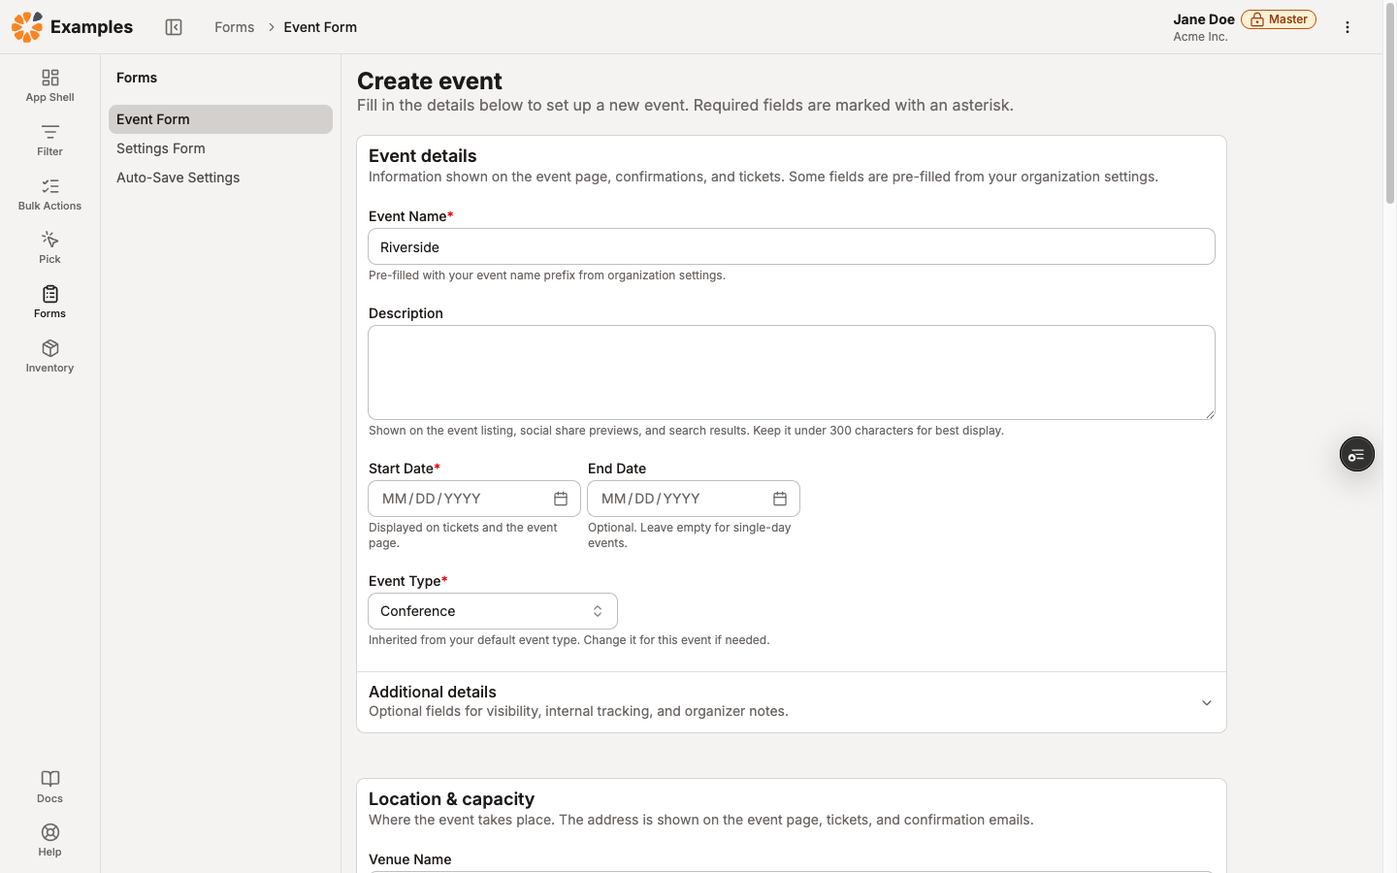
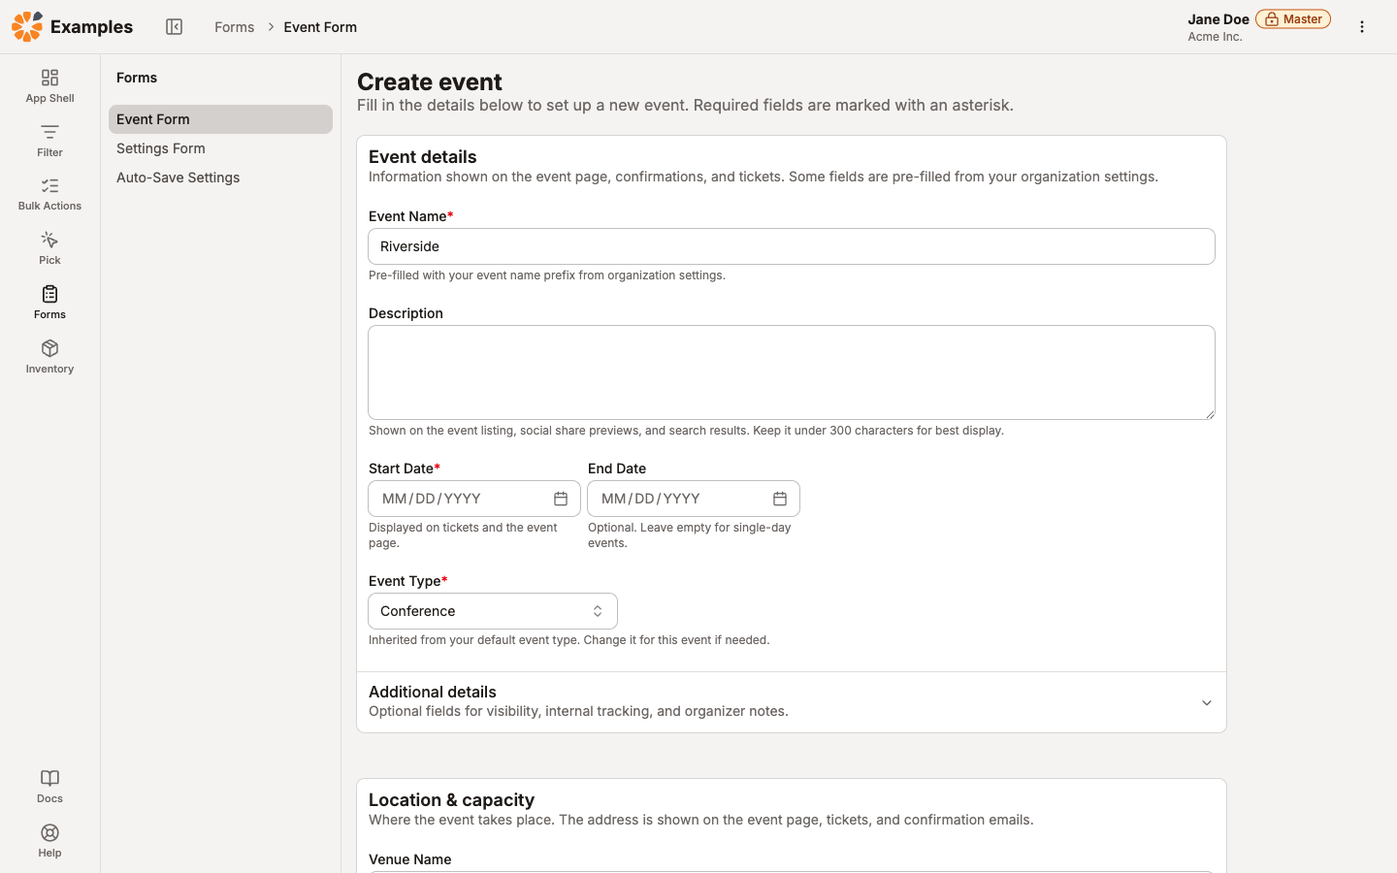
docs(DST-1571): rework part 1 after review
- Say "Seite" instead of "Screen" throughout
- Soften the before section ("festgelegt"/"eigene Loesung" instead of "erfunden")
- Move the "kein Fehler" passage from a callout into the running text
- Lead the frame chapter with the three-levels context before the details
- Reframe the Panel examples as "wir haben uns herangetastet", no single team
- Split the rollout into looks / page structure / navigation with the
  post-Christmas opt-in story for the navigation
- Retake all eight beta-docs screenshots without the Vercel toolbar

diff --git a/.v18-layout-article/preview.html b/.v18-layout-article/preview.html
@@ -148,7 +148,7 @@
     <p>Folgeartikel zu „Das visuelle Fundament von Marigold v18“. Die offenen Punkte für die Veröffentlichung stehen am Ende der Seite.</p>
   </div>
 
-  <p class="lede">Im letzten Artikel ging es um Farben, Flächen und Schatten, also darum, wie unsere Oberflächen aussehen. Diesmal geht es eine Ebene höher: wie eine Seite überhaupt aufgebaut ist. Das ist der Teil von v18, der am meisten verändert, wie wir Screens entwerfen und bauen.</p>
+  <p class="lede">Im letzten Artikel ging es um Farben, Flächen und Schatten, also darum, wie unsere Oberflächen aussehen. Diesmal geht es eine Ebene höher: um den Aufbau einer Seite. Das ist der Teil von v18, der am meisten daran ändert, wie wir entwerfen und entwickeln.</p>
 
   <p>Ein Bild vorweg, das den ganzen Artikel zusammenfasst: <strong>erst die Räume, dann die Möbel.</strong> Der Rahmen einer Anwendung ist das Gebäude. Eine Seite ist ein Raum darin. Panels sind die benannten Bereiche im Raum. Und was in einem Bereich steht, sind die Möbel.</p>
 
@@ -164,7 +164,7 @@
   <h2>Teil 1: Wie eine Seite in Marigold aufgebaut ist</h2>
 
   <h3>Vorher gab es kein gemeinsames Modell</h3>
-  <p>Bisher hat jedes Produkt seinen Seitenaufbau selbst erfunden. Es gab Bausteine für Buttons, Felder und Tabellen, aber keinen für „eine Seite“. Also hat jeder Screen die Grundfragen neu beantwortet: Wo steht der Titel? Wie weit ist der Abstand nach oben? Kommt die Hauptaktion oben rechts hin oder unten? Wie werden Abschnitte voneinander getrennt, und heißen sie überhaupt irgendwie?</p>
+  <p>Bisher hat jedes Produkt seinen Seitenaufbau selbst festgelegt. Es gab Bausteine für Buttons, Felder und Tabellen, aber keinen für „eine Seite“. Also hat jede Seite die Grundfragen neu beantwortet: Wo steht der Titel? Wie weit ist der Abstand nach oben? Kommt die Hauptaktion oben rechts hin oder unten? Wie werden Abschnitte voneinander getrennt, und heißen sie überhaupt irgendwie?</p>
   <p>Das Ergebnis sieht man hier. Unter dem Titel liegt ein Stapel Bedienelemente: ein Schalter, ein Suchfeld, eine Schnellwahl, dazwischen die Hauptaktion. Danach folgt eine Tabelle, die direkt auf dem Seitenhintergrund liegt. Nichts davon ist als Bereich benannt.</p>
 
   <figure>
@@ -172,11 +172,10 @@
     <figcaption>Eine typische Seite ohne gemeinsames Seitenmodell: Titel, darunter Bedienelemente in unterschiedlichen Breiten, dann eine Tabelle ohne eigene Fläche.</figcaption>
   </figure>
 
-  <div class="panel">
-    <p>Das war kein Fehler, den irgendwer gemacht hat. Es gab schlicht kein gemeinsames Modell, an dem man sich orientieren konnte, also hat jedes Team eins erfunden. Genau diese Lücke füllt v18.</p>
-  </div>
+  <p>Das war kein Fehler, den irgendwer gemacht hat. Es gab schlicht kein gemeinsames Modell, an dem man sich orientieren konnte, also hat jedes Team eine eigene Lösung gefunden. Genau diese Lücke füllt v18.</p>
 
   <h3>Der Rahmen bleibt, der Inhalt wechselt</h3>
+  <p>v18 beantwortet diese Fragen einmal, und zwar mit drei Ebenen, die ineinander liegen: dem Rahmen der Anwendung, der Seite darin, und den benannten Bereichen auf der Seite. Jede Ebene hat eine klare Aufgabe, und keine übernimmt die Aufgabe einer anderen. Das ist der ganze Kern des Layout-Systems. Gehen wir die drei Ebenen von außen nach innen durch.</p>
   <p>Ganz außen sitzt der <strong>App-Rahmen</strong>: Navigation links, eine Kopfzeile oben, der Inhalt darunter. Der Rahmen bleibt stehen, während man durch die Anwendung navigiert. Nur der Inhaltsbereich wechselt.</p>
 
   <figure>
@@ -203,6 +202,8 @@
     <figcaption>Der Inhalt einspaltig: Der Seitenkopf bricht um, das Panel behält Titel und Beschreibung.</figcaption>
   </figure>
 
+  <p>Die neue Navigation kommt allerdings nicht zusammen mit dem Rest von v18. Wann sie kommt und warum getrennt, steht weiter unten unter „Wann kommt das?“.</p>
+
   <p>Wichtig ist außerdem etwas, das man nicht sieht: Die Seite scrollt wie eine ganz normale Webseite, nicht in einem eigenen Kasten. Deshalb funktionieren Dinge, die man von jeder Website erwartet: Suchen mit <code>Cmd+F</code>, der Zurück-Button, Links, die an die richtige Stelle springen.</p>
 
   <h3>Die Seite: ein Titel, eine Hauptaktion</h3>
@@ -218,15 +219,15 @@
   <p>Unter dem Seitenkopf liegen <strong>Panels</strong>. Ein Panel ist ein benannter Bereich, der ein Thema bündelt: „Basisdaten“, „Tickets“, „Abrechnung“. Eine typische Seite besteht aus einer Handvoll davon. Das macht aus einer langen Liste von Feldern eine Seite, die man überfliegen kann: Man liest die Überschriften, findet seinen Bereich und liest nur dort weiter.</p>
   <p>Der Unterschied zur Karte ist wichtig, weil beide gleich aussehen: Eine Karte steht für einen Eintrag, der sich wiederholt, etwa eine Veranstaltung in einer Liste. Ein Panel gibt es pro Bereich genau einmal. <strong>Karten wiederholen sich, Panels nicht.</strong></p>
 
-  <h3>Ein Team hat schon angefangen</h3>
-  <p>Das Muster gab es intern schon, bevor es einen Namen hatte. Auf der Seite zum Bearbeiten eines Einzeltermins ist genau das gebaut: Abschnitte mit Titel, jeder mit einem Thema, jeweils auf einer eigenen weißen Fläche.</p>
+  <h3>Wir haben uns schon herangetastet</h3>
+  <p>Das Muster ist nicht neu. An mehreren Stellen in unseren Systemen haben wir uns in genau diese Richtung vorgearbeitet, lange bevor es einen Namen dafür gab. Ein Beispiel, das viele kennen, ist die Seite zum Bearbeiten eines Einzeltermins: Abschnitte mit Titel, jeder mit einem Thema, jeweils auf einer eigenen weißen Fläche.</p>
 
   <figure>
     <img src="assets/core-event-panel-tickets.png" alt="Abschnitt Tickets auf der Einzeltermin-Seite">
     <figcaption>Ein Abschnitt der Einzeltermin-Seite: Titel, Felder, und am Ende ein einziger einklappbarer Teil für die erweiterten Einstellungen.</figcaption>
   </figure>
 
-  <p>Technisch ist dieser Abschnitt eine Card, denn ein Panel gab es damals nicht. Das Team hatte also nicht die Wahl und hat die Card zum Seitenabschnitt umgebaut. v18 gibt dem Ding endlich seinen richtigen Namen und den passenden Aufbau.</p>
+  <p>Technisch ist dieser Abschnitt eine Card, denn ein Panel gab es damals noch nicht. Also wurde die Card zum Seitenabschnitt umgebaut, weil sie das Nächstliegende war. v18 gibt dem Ding endlich seinen richtigen Namen und den passenden Aufbau.</p>
   <p>Dasselbe im Überspielungstool, dort mit zwei Bereichen nebeneinander. Beide haben einen Titel, eine Zeile mit der Anzahl darunter, ihre eigenen Filter und einen leeren Zustand mit einem Hinweis, was zu tun ist.</p>
 
   <figure>
@@ -234,23 +235,27 @@
     <figcaption>Zwei benannte Bereiche nebeneinander, jeder mit Titel, Anzahl, eigenen Filtern und leerem Zustand.</figcaption>
   </figure>
 
-  <p>Diese Beispiele sind der eigentliche Beleg dafür, dass v18 nichts Neues erfindet. Mehrere Teams sind unabhängig voneinander bei derselben Form gelandet, weil das die Form ist, die die Aufgabe verlangt. Das Layout-System schreibt sie auf und gibt sie allen anderen mit.</p>
+  <p>Diese Beispiele sind der eigentliche Beleg dafür, dass v18 nichts Neues erfindet. An verschiedenen Stellen sind wir unabhängig voneinander bei derselben Form gelandet, weil das die Form ist, die die Aufgabe verlangt. Das Layout-System schreibt sie auf und macht sie überall verfügbar.</p>
 
   <h3>Was das im Alltag bringt</h3>
   <ul>
-    <li><strong>Weniger Erklärbedarf.</strong> Wer einen Screen verstanden hat, versteht die anderen auch. Der Rahmen springt nicht von Produkt zu Produkt.</li>
+    <li><strong>Weniger Erklärbedarf.</strong> Wer eine Seite verstanden hat, versteht die anderen auch. Der Rahmen springt nicht von Produkt zu Produkt.</li>
     <li><strong>Bereiche haben Namen.</strong> Im Support kann man sagen „im Bereich Tickets“ statt „ungefähr in der Mitte weiter runter scrollen“.</li>
     <li><strong>Barrierefreiheit fällt mit ab.</strong> Screenreader navigieren genau über solche benannten Bereiche und über die Überschriften-Struktur einer Seite. Beides entsteht automatisch, wenn ein Bereich einen Titel bekommt. Das ist auch für Ausschreibungen relevant, in denen Barrierefreiheit abgefragt wird.</li>
-    <li><strong>Neue Screens gehen schneller.</strong> Niemand baut den Seitenrahmen noch mal neu.</li>
+    <li><strong>Neue Seiten gehen schneller.</strong> Niemand baut den Seitenrahmen noch mal neu.</li>
   </ul>
 
   <h3>Wann kommt das?</h3>
-  <p>Beim Aussehen war es einfach: v18 kommt Mitte August, danach sieht alles frischer aus, und funktional ändert sich nichts.</p>
+  <p>Hier lohnt es sich, genau zu lesen, weil drei Dinge zu drei verschiedenen Zeitpunkten kommen.</p>
 
   <div class="panel note">
     <div class="panel-title">Für alle, die mit Kunden sprechen</div>
-    <p>Beim Layout ist es anders. Der neue Aufbau kommt <strong>Screen für Screen</strong>, nicht mit einem Schlag. Ein Produkt kann Panels einsetzen und weiterhin im alten Rahmen laufen, so wie es die Einzeltermin-Seite heute tut. Es gibt also keinen Tag, an dem plötzlich alle Seiten anders aussehen, sondern eine Reihe von Umbauten über die nächsten Releases. Wo umgebaut wird, ändern sich Anordnung und Abstände sichtbar, weil genau das der Punkt ist.</p>
+    <p><strong>Das Aussehen</strong> kommt Mitte August ins Reservix-System, also die neuen Farben, Flächen und Schatten aus dem letzten Artikel. Die anderen Systeme ziehen danach nach. Funktional ändert sich dabei nichts.</p>
+    <p><strong>Der Seitenaufbau mit Panels</strong> kommt Seite für Seite, nicht mit einem Schlag. Ein Produkt kann Panels einsetzen und dabei weiterhin im bisherigen Rahmen laufen, so wie es die Einzeltermin-Seite heute schon tut. Es gibt also keinen Tag, an dem plötzlich alle Seiten anders aussehen, sondern eine Reihe von Umbauten über die nächsten Releases. Wo umgebaut wird, ändern sich Anordnung und Abstände sichtbar, weil genau das der Punkt ist.</p>
+    <p><strong>Die neue Navigation</strong> ist von beidem ausgenommen und kommt später, nach dem Weihnachtsgeschäft. Die Navigation ist einer der wichtigsten Faktoren in unseren Systemen und besonders im Reservix-System: Wer täglich damit arbeitet, greift blind nach den richtigen Stellen. Deshalb führen wir sie getrennt vom Rest ein, statt sie in einem großen Release mitlaufen zu lassen. Voraussichtlich wird es sie zuerst als Opt-in geben, so dass jede und jeder selbst entscheiden kann, wann umgestellt wird.</p>
   </div>
+
+  <p>Einige von euch haben die neue Navigation schon getestet. Danke dafür, euer Feedback ist eingebaut. Bevor sie an den Start geht, wird sie noch einmal auf Herz und Nieren geprüft.</p>
 
   <p>Wer nur wissen wollte, wie eine Seite aufgebaut ist, kann hier aufhören. Der Rest geht ins Detail.</p>
 
@@ -346,7 +351,7 @@
   <p>Rahmen und Seite sind in v18 als Beta gekennzeichnet. Sie funktionieren und sind im Einsatz, die Schnittstelle kann sich aber noch ändern. Panel ist stabiler und die naheliegende Stelle, um anzufangen: Man kann eine bestehende Seite in benannte Bereiche gliedern, ohne den Rahmen anzufassen.</p>
 
   <h2>Zum Weiterlesen</h2>
-  <p>Die vollständige Referenz steht in der Beta-Dokumentation: <a href="https://marigold-docs-git-beta-release-marigold.vercel.app/foundations/layouts">Layouts</a> für die Grundlagen, <a href="https://marigold-docs-git-beta-release-marigold.vercel.app/patterns/layout/app-frame">App Frame</a> für den Aufbau einer Anwendung, <a href="https://marigold-docs-git-beta-release-marigold.vercel.app/components/layout/panel">Panel</a> für alle Details zu Titel, Aktionen, Varianten und Abständen. Die Beispielseiten unter <a href="https://marigold-docs-git-beta-release-marigold.vercel.app/examples">Examples</a> sind vollständige Screens, durch die man klicken kann.</p>
+  <p>Die vollständige Referenz steht in der Beta-Dokumentation: <a href="https://marigold-docs-git-beta-release-marigold.vercel.app/foundations/layouts">Layouts</a> für die Grundlagen, <a href="https://marigold-docs-git-beta-release-marigold.vercel.app/patterns/layout/app-frame">App Frame</a> für den Aufbau einer Anwendung, <a href="https://marigold-docs-git-beta-release-marigold.vercel.app/components/layout/panel">Panel</a> für alle Details zu Titel, Aktionen, Varianten und Abständen. Die Beispielseiten unter <a href="https://marigold-docs-git-beta-release-marigold.vercel.app/examples">Examples</a> sind vollständige Seiten, durch die man klicken kann.</p>
   <p>Zum Schluss dieselbe Beobachtung wie beim visuellen Fundament: Ein gutes Layout fällt nicht auf. Man merkt es daran, dass man auf einer neuen Seite nicht überlegen muss, wo man ist und was man als Nächstes tun soll.</p>
 
   <hr>
@@ -354,11 +359,11 @@
   <div class="panel note checklist">
     <div class="panel-title">Vor der Veröffentlichung zu klären (intern, vor dem Publizieren entfernen)</div>
     <ul>
-      <li>Team der Einzeltermin-Seite und des Überspielungstools vorab informieren, beide werden namentlich als positives Beispiel genannt.</li>
       <li>Screenshots stammen aus dem Test-Mandanten „Test-Design System“ auf Stage, keine echten Kundendaten.</li>
       <li>Doku-Links zeigen auf die Beta-Deployment-URL und müssen zum Launch auf marigold-ui.io umgestellt werden.</li>
       <li>Master- und Admin-Markierungen sind auf zwei Screenshots sichtbar, werden im Text aber bewusst nicht erklärt.</li>
-      <li>Namen der beiden Teams im Abschnitt „Ein Team hat schon angefangen“ ergänzen.</li>
+      <li>Termin „nach dem Weihnachtsgeschäft“ für die Navigation: genauer fassen, sobald bekannt?</li>
+      <li>Opt-in für die Navigation ist als „voraussichtlich“ formuliert. Vor der Veröffentlichung bestätigen.</li>
     </ul>
   </div>
 

diff --git a/.v18-layout-article/ARTICLE.md b/.v18-layout-article/ARTICLE.md
@@ -2,7 +2,7 @@
 
 _Entwurf für Review (DST-1571). Folgeartikel zu „Das visuelle Fundament von Marigold v18". Noch nicht veröffentlicht._
 
-Im letzten Artikel ging es um Farben, Flächen und Schatten, also darum, wie unsere Oberflächen aussehen. Diesmal geht es eine Ebene höher: wie eine Seite überhaupt aufgebaut ist. Das ist der Teil von v18, der am meisten verändert, wie wir Screens entwerfen und bauen.
+Im letzten Artikel ging es um Farben, Flächen und Schatten, also darum, wie unsere Oberflächen aussehen. Diesmal geht es eine Ebene höher: um den Aufbau einer Seite. Das ist der Teil von v18, der am meisten daran ändert, wie wir entwerfen und entwickeln.
 
 Ein Bild vorweg, das den ganzen Artikel zusammenfasst: **erst die Räume, dann die Möbel.** Der Rahmen einer Anwendung ist das Gebäude. Eine Seite ist ein Raum darin. Panels sind die benannten Bereiche im Raum. Und was in einem Bereich steht, sind die Möbel.
 
@@ -16,15 +16,17 @@ Der Artikel ist in drei Teilen aufgebaut. **Teil 1** erklärt den Aufbau einer S
 
 ### Vorher gab es kein gemeinsames Modell
 
-Bisher hat jedes Produkt seinen Seitenaufbau selbst erfunden. Es gab Bausteine für Buttons, Felder und Tabellen, aber keinen für „eine Seite". Also hat jeder Screen die Grundfragen neu beantwortet: Wo steht der Titel? Wie weit ist der Abstand nach oben? Kommt die Hauptaktion oben rechts hin oder unten? Wie werden Abschnitte voneinander getrennt, und heißen sie überhaupt irgendwie?
+Bisher hat jedes Produkt seinen Seitenaufbau selbst festgelegt. Es gab Bausteine für Buttons, Felder und Tabellen, aber keinen für „eine Seite". Also hat jede Seite die Grundfragen neu beantwortet: Wo steht der Titel? Wie weit ist der Abstand nach oben? Kommt die Hauptaktion oben rechts hin oder unten? Wie werden Abschnitte voneinander getrennt, und heißen sie überhaupt irgendwie?
 
 Das Ergebnis sieht man hier. Unter dem Titel liegt ein Stapel Bedienelemente: ein Schalter, ein Suchfeld, eine Schnellwahl, dazwischen die Hauptaktion. Danach folgt eine Tabelle, die direkt auf dem Seitenhintergrund liegt. Nichts davon ist als Bereich benannt.
 
 ![Veranstaltungsübersicht: Bedienelemente ohne benannte Bereiche unter dem Titel](assets/core-before-veranstaltungen.png)
 
-Das war kein Fehler, den irgendwer gemacht hat. Es gab schlicht kein gemeinsames Modell, an dem man sich orientieren konnte, also hat jedes Team eins erfunden. Genau diese Lücke füllt v18.
+Das war kein Fehler, den irgendwer gemacht hat. Es gab schlicht kein gemeinsames Modell, an dem man sich orientieren konnte, also hat jedes Team eine eigene Lösung gefunden. Genau diese Lücke füllt v18.
 
 ### Der Rahmen bleibt, der Inhalt wechselt
+
+v18 beantwortet diese Fragen einmal, und zwar mit drei Ebenen, die ineinander liegen: dem Rahmen der Anwendung, der Seite darin, und den benannten Bereichen auf der Seite. Jede Ebene hat eine klare Aufgabe, und keine übernimmt die Aufgabe einer anderen. Das ist der ganze Kern des Layout-Systems. Gehen wir die drei Ebenen von außen nach innen durch.
 
 Ganz außen sitzt der **App-Rahmen**: Navigation links, eine Kopfzeile oben, der Inhalt darunter. Der Rahmen bleibt stehen, während man durch die Anwendung navigiert. Nur der Inhaltsbereich wechselt.
 
@@ -39,6 +41,8 @@ Auf schmalen Bildschirmen wird die Navigation zu einer Fläche, die sich über d
 ![Navigation auf schmalem Bildschirm](assets/nav-mobile-sheet.png)
 
 ![Seiteninhalt auf schmalem Bildschirm](assets/nav-mobile-page.png)
+
+Die neue Navigation kommt allerdings nicht zusammen mit dem Rest von v18. Wann sie kommt und warum getrennt, steht weiter unten unter „Wann kommt das?".
 
 Wichtig ist außerdem etwas, das man nicht sieht: Die Seite scrollt wie eine ganz normale Webseite, nicht in einem eigenen Kasten. Deshalb funktionieren Dinge, die man von jeder Website erwartet: Suchen mit `Cmd+F`, der Zurück-Button, Links, die an die richtige Stelle springen.
 
@@ -56,32 +60,38 @@ Unter dem Seitenkopf liegen **Panels**. Ein Panel ist ein benannter Bereich, der
 
 Der Unterschied zur Karte ist wichtig, weil beide gleich aussehen: Eine Karte steht für einen Eintrag, der sich wiederholt, etwa eine Veranstaltung in einer Liste. Ein Panel gibt es pro Bereich genau einmal. **Karten wiederholen sich, Panels nicht.**
 
-### Ein Team hat schon angefangen
+### Wir haben uns schon herangetastet
 
-Das Muster gab es intern schon, bevor es einen Namen hatte. Auf der Seite zum Bearbeiten eines Einzeltermins ist genau das gebaut: Abschnitte mit Titel, jeder mit einem Thema, jeweils auf einer eigenen weißen Fläche.
+Das Muster ist nicht neu. An mehreren Stellen in unseren Systemen haben wir uns in genau diese Richtung vorgearbeitet, lange bevor es einen Namen dafür gab. Ein Beispiel, das viele kennen, ist die Seite zum Bearbeiten eines Einzeltermins: Abschnitte mit Titel, jeder mit einem Thema, jeweils auf einer eigenen weißen Fläche.
 
 ![Abschnitt „Tickets" auf der Einzeltermin-Seite](assets/core-event-panel-tickets.png)
 
-Technisch ist dieser Abschnitt eine Card, denn ein Panel gab es damals nicht. Das Team hatte also nicht die Wahl und hat die Card zum Seitenabschnitt umgebaut. v18 gibt dem Ding endlich seinen richtigen Namen und den passenden Aufbau.
+Technisch ist dieser Abschnitt eine Card, denn ein Panel gab es damals noch nicht. Also wurde die Card zum Seitenabschnitt umgebaut, weil sie das Nächstliegende war. v18 gibt dem Ding endlich seinen richtigen Namen und den passenden Aufbau.
 
 Dasselbe im Überspielungstool, dort mit zwei Bereichen nebeneinander. Beide haben einen Titel, eine Zeile mit der Anzahl darunter, ihre eigenen Filter und einen leeren Zustand mit einem Hinweis, was zu tun ist.
 
 ![Überspielungstool: zwei benannte Bereiche nebeneinander](assets/core-after-wizard-bundles.png)
 
-Diese Beispiele sind der eigentliche Beleg dafür, dass v18 nichts Neues erfindet. Mehrere Teams sind unabhängig voneinander bei derselben Form gelandet, weil das die Form ist, die die Aufgabe verlangt. Das Layout-System schreibt sie auf und gibt sie allen anderen mit.
+Diese Beispiele sind der eigentliche Beleg dafür, dass v18 nichts Neues erfindet. An verschiedenen Stellen sind wir unabhängig voneinander bei derselben Form gelandet, weil das die Form ist, die die Aufgabe verlangt. Das Layout-System schreibt sie auf und macht sie überall verfügbar.
 
 ### Was das im Alltag bringt
 
-- **Weniger Erklärbedarf.** Wer einen Screen verstanden hat, versteht die anderen auch. Der Rahmen springt nicht von Produkt zu Produkt.
+- **Weniger Erklärbedarf.** Wer eine Seite verstanden hat, versteht die anderen auch. Der Rahmen springt nicht von Produkt zu Produkt.
 - **Bereiche haben Namen.** Im Support kann man sagen „im Bereich Tickets" statt „ungefähr in der Mitte weiter runter scrollen".
 - **Barrierefreiheit fällt mit ab.** Screenreader navigieren genau über solche benannten Bereiche und über die Überschriften-Struktur einer Seite. Beides entsteht automatisch, wenn ein Bereich einen Titel bekommt. Das ist auch für Ausschreibungen relevant, in denen Barrierefreiheit abgefragt wird.
-- **Neue Screens gehen schneller.** Niemand baut den Seitenrahmen noch mal neu.
+- **Neue Seiten gehen schneller.** Niemand baut den Seitenrahmen noch mal neu.
 
 ### Wann kommt das?
 
-Beim Aussehen war es einfach: v18 kommt Mitte August, danach sieht alles frischer aus, und funktional ändert sich nichts.
+Hier lohnt es sich, genau zu lesen, weil drei Dinge zu drei verschiedenen Zeitpunkten kommen.
 
-Beim Layout ist es anders, und das ist wichtig für alle, die mit Kunden sprechen. Der neue Aufbau kommt **Screen für Screen**, nicht mit einem Schlag. Ein Produkt kann Panels einsetzen und weiterhin im alten Rahmen laufen, so wie es die Einzeltermin-Seite heute tut. Es gibt also keinen Tag, an dem plötzlich alle Seiten anders aussehen, sondern eine Reihe von Umbauten über die nächsten Releases. Wo umgebaut wird, ändern sich Anordnung und Abstände sichtbar, weil genau das der Punkt ist.
+**Das Aussehen** kommt Mitte August ins Reservix-System, also die neuen Farben, Flächen und Schatten aus dem letzten Artikel. Die anderen Systeme ziehen danach nach. Funktional ändert sich dabei nichts.
+
+**Der Seitenaufbau mit Panels** kommt Seite für Seite, nicht mit einem Schlag. Ein Produkt kann Panels einsetzen und dabei weiterhin im bisherigen Rahmen laufen, so wie es die Einzeltermin-Seite heute schon tut. Es gibt also keinen Tag, an dem plötzlich alle Seiten anders aussehen, sondern eine Reihe von Umbauten über die nächsten Releases. Wo umgebaut wird, ändern sich Anordnung und Abstände sichtbar, weil genau das der Punkt ist.
+
+**Die neue Navigation** ist von beidem ausgenommen und kommt später, nach dem Weihnachtsgeschäft. Die Navigation ist einer der wichtigsten Faktoren in unseren Systemen und besonders im Reservix-System: Wer täglich damit arbeitet, greift blind nach den richtigen Stellen. Deshalb führen wir sie getrennt vom Rest ein, statt sie in einem großen Release mitlaufen zu lassen. Voraussichtlich wird es sie zuerst als Opt-in geben, so dass jede und jeder selbst entscheiden kann, wann umgestellt wird.
+
+Einige von euch haben die neue Navigation schon getestet. Danke dafür, euer Feedback ist eingebaut. Bevor sie an den Start geht, wird sie noch einmal auf Herz und Nieren geprüft.
 
 Wer nur wissen wollte, wie eine Seite aufgebaut ist, kann hier aufhören. Der Rest geht ins Detail.
 
@@ -179,7 +189,7 @@ Rahmen und Seite sind in v18 als Beta gekennzeichnet. Sie funktionieren und sind
 
 ## Zum Weiterlesen
 
-Die vollständige Referenz steht in der Beta-Dokumentation: [Layouts](https://marigold-docs-git-beta-release-marigold.vercel.app/foundations/layouts) für die Grundlagen, [App Frame](https://marigold-docs-git-beta-release-marigold.vercel.app/patterns/layout/app-frame) für den Aufbau einer Anwendung, [Panel](https://marigold-docs-git-beta-release-marigold.vercel.app/components/layout/panel) für alle Details zu Titel, Aktionen, Varianten und Abständen. Die Beispielseiten unter [Examples](https://marigold-docs-git-beta-release-marigold.vercel.app/examples) sind vollständige Screens, durch die man klicken kann.
+Die vollständige Referenz steht in der Beta-Dokumentation: [Layouts](https://marigold-docs-git-beta-release-marigold.vercel.app/foundations/layouts) für die Grundlagen, [App Frame](https://marigold-docs-git-beta-release-marigold.vercel.app/patterns/layout/app-frame) für den Aufbau einer Anwendung, [Panel](https://marigold-docs-git-beta-release-marigold.vercel.app/components/layout/panel) für alle Details zu Titel, Aktionen, Varianten und Abständen. Die Beispielseiten unter [Examples](https://marigold-docs-git-beta-release-marigold.vercel.app/examples) sind vollständige Seiten, durch die man klicken kann.
 
 Zum Schluss dieselbe Beobachtung wie beim visuellen Fundament: Ein gutes Layout fällt nicht auf. Man merkt es daran, dass man auf einer neuen Seite nicht überlegen muss, wo man ist und was man als Nächstes tun soll.
 
@@ -187,7 +197,8 @@ Zum Schluss dieselbe Beobachtung wie beim visuellen Fundament: Ein gutes Layout 
 
 _Vor der Veröffentlichung zu klären:_
 
-- _Team der Einzeltermin-Seite und des Überspielungstools vorab informieren, beide werden namentlich als positives Beispiel genannt._
 - _Screenshots stammen aus dem Test-Mandanten „Test-Design System" auf Stage, keine echten Kundendaten._
 - _Doku-Links zeigen auf die Beta-Deployment-URL und müssen zum Launch auf marigold-ui.io umgestellt werden._
 - _Master- und Admin-Markierungen sind auf zwei Screenshots sichtbar, werden im Text aber bewusst nicht erklärt._
+- _Termin „nach dem Weihnachtsgeschäft" für die Navigation: genauer fassen, sobald bekannt?_
+- _Opt-in für die Navigation ist als „voraussichtlich" formuliert. Vor der Veröffentlichung bestätigen._
